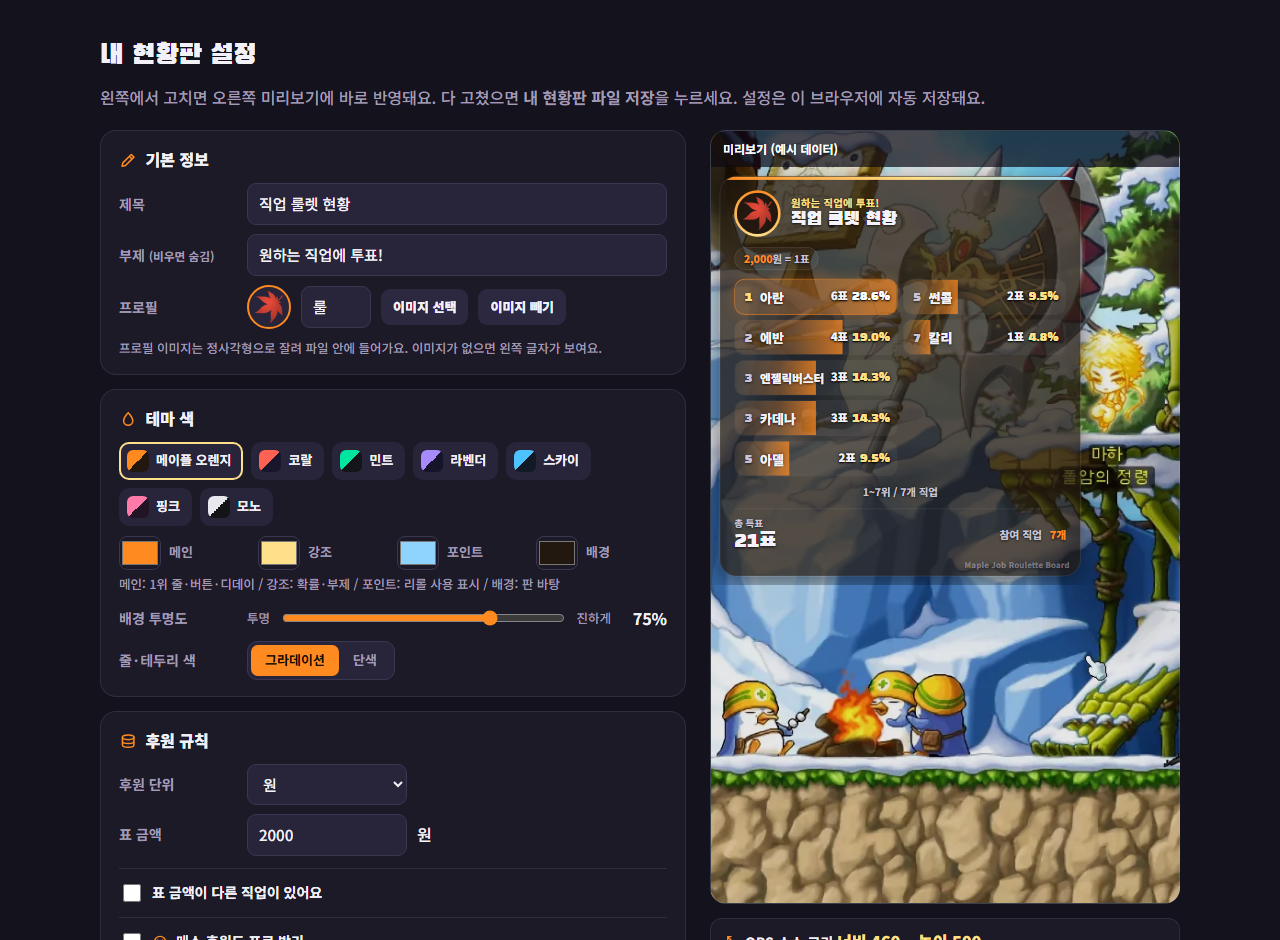
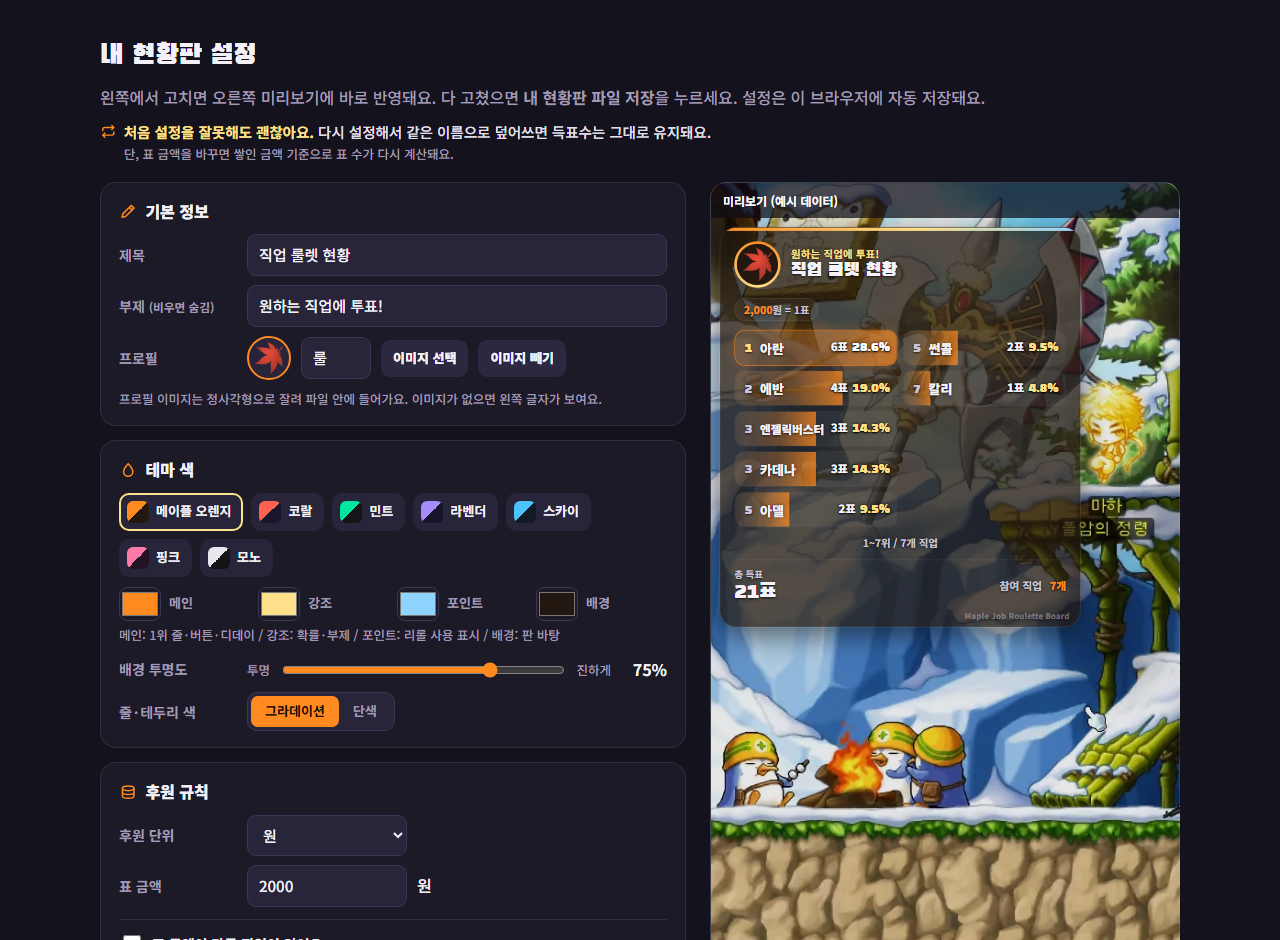
설정을 바꿔도 득표수가 유지된다는 안내 추가

diff --git a/index.html b/index.html
@@ -22,6 +22,7 @@ h1 span{color:var(--acc)}
 .b{display:inline-flex;align-items:center;gap:6px;font:inherit;font-weight:900;font-size:15px;border:0;border-radius:12px;padding:12px 18px;cursor:pointer;text-decoration:none;background:var(--acc);color:#1a0e00}
 .b.s{background:#2c2840;color:var(--txt)}
 .b.sm{font-size:13px;padding:8px 12px;border-radius:9px}
+.keep{display:flex;gap:7px;align-items:flex-start;margin:-10px 0 18px;font-size:14.5px;color:#e4e0f0;word-break:keep-all}.keep .i{color:var(--acc);flex:none;margin-top:3px}.keep b{color:var(--hi)}.keep small{display:block;font-size:12.5px;color:var(--sub)}
 .feat{display:flex;gap:8px;flex-wrap:wrap;margin-top:18px}
 .feat span{font-size:13px;font-weight:700;color:var(--sub);background:rgba(255,255,255,.05);border:1px solid var(--line);border-radius:999px;padding:4px 11px}
 .feat .multi{display:inline-flex;flex-wrap:wrap;gap:2px 12px}.feat em{font-style:normal;display:inline-flex;align-items:center;gap:5px}.feat em .i{color:var(--acc)}
@@ -176,6 +177,7 @@ header .lead{color:#f1eef8}header .feat span{background:rgba(20,18,28,.72);color
   <div class="in">
     <h2>내 현황판 설정</h2>
     <p class="desc">왼쪽에서 고치면 오른쪽 미리보기에 바로 반영돼요. 다 고쳤으면 <b>내 현황판 파일 저장</b>을 누르세요. 설정은 이 브라우저에 자동 저장돼요.</p>
+    <p class="keep"><svg class="i" aria-hidden="true"><use href="#i-repeat"/></svg><span><b>처음 설정을 잘못해도 괜찮아요.</b> 다시 설정해서 같은 이름으로 덮어쓰면 득표수는 그대로 유지돼요.<small>단, 표 금액을 바꾸면 쌓인 금액 기준으로 표 수가 다시 계산돼요.</small></span></p>
     <div class="grid">
       <div class="form">
         <div class="card">
